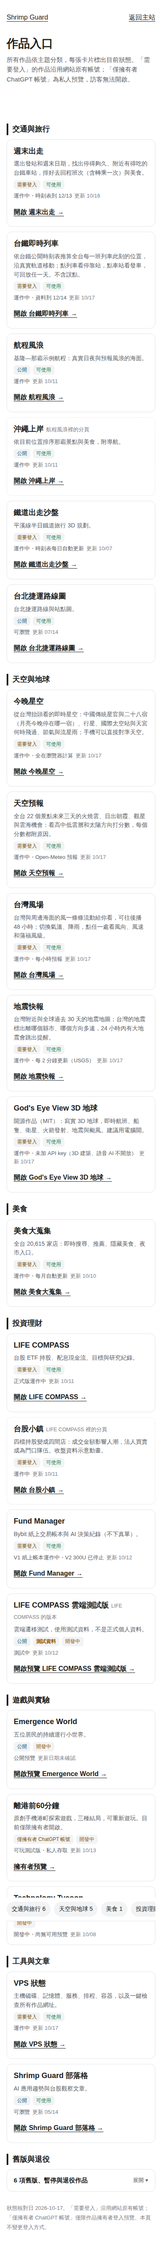
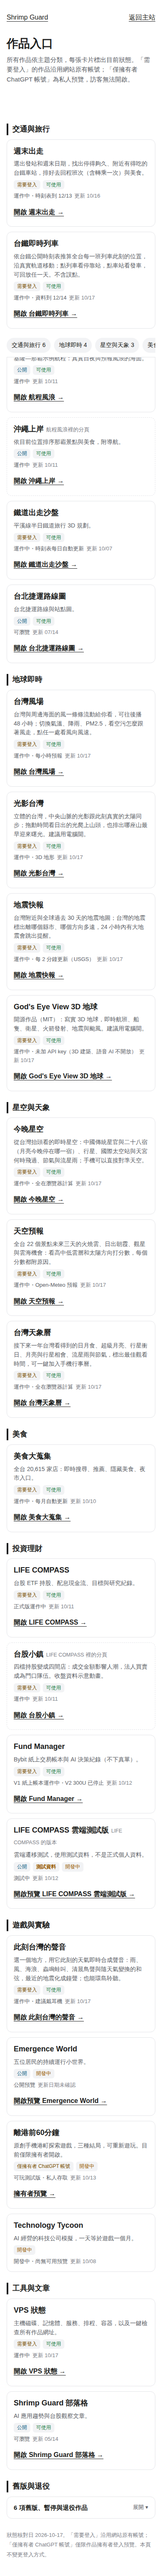
projects: add 台灣天象曆, 光影台灣, 此刻台灣的聲音; split 地球即時 / 星空與天象 (30 works)
Claude-Session: https://claude.ai/code/session_01GVcRfQhdVaSGc69DiKrmzk

diff --git a/overlays/projects/index.html b/overlays/projects/index.html
@@ -1,0 +1,28 @@
+<!doctype html><html lang="zh-Hant"><head><meta charset="utf-8"><meta name="viewport" content="width=device-width,initial-scale=1"><title>作品入口 · Shrimp Guard</title><meta name="description" content="Shrimp Guard 所有作品與目前狀態。"><style>
+:root{color-scheme:light dark;--bg:#fff;--card:#fff;--ink:#1d1e20;--ink2:#5b5e66;--ink3:#7d8087;--line:#e3e4e8;--chip:#f2f3f5;--ok:#1d7f46;--dev:#9a5c00;--old:#6c6f77;--ask:#5b43b0;--lock:#7a5000;--pub:#0a5f85}
+@media (prefers-color-scheme:dark){:root{--bg:#1d1e20;--card:#26272b;--ink:#dadadb;--ink2:#b0b2b7;--ink3:#8c8f96;--line:#38393e;--chip:#313237;--ok:#57c785;--dev:#e3a23a;--old:#a3a6ad;--ask:#ad98f2;--lock:#e5b864;--pub:#64bde4}}
+*{box-sizing:border-box}body{margin:0;background:var(--bg);color:var(--ink);font-family:-apple-system,BlinkMacSystemFont,"Segoe UI","PingFang TC","Noto Sans TC",sans-serif;line-height:1.55}
+.shell{max-width:1000px;margin:auto;padding:20px 16px 40px}
+nav.top{display:flex;justify-content:space-between;align-items:center}nav.top a{color:var(--ink);padding:10px 0;text-decoration:underline;text-underline-offset:4px}
+h1{font-size:clamp(28px,5vw,40px);margin:18px 0 6px}.intro{color:var(--ink2);margin:0;font-size:15px}
+.jump{position:sticky;top:0;z-index:2;background:var(--bg);display:flex;gap:8px;overflow-x:auto;padding:10px 0;margin-top:12px;border-bottom:1px solid var(--line)}
+.jump a{flex:none;font-size:14px;padding:7px 12px;border-radius:999px;background:var(--chip);color:var(--ink);text-decoration:none;white-space:nowrap}
+section{scroll-margin-top:60px}h2{font-size:18px;margin:26px 0 10px;padding-left:10px;border-left:4px solid var(--ink)}
+.grid{display:grid;grid-template-columns:repeat(2,minmax(0,1fr));gap:12px}
+.card{background:var(--card);border:1px solid var(--line);border-radius:12px;padding:14px 16px;display:flex;flex-direction:column;gap:6px;min-width:0}
+.card.sub{border-style:dashed}
+.name{font-size:18px;font-weight:700;margin:0}.of{font-size:12.5px;color:var(--ink3);font-weight:400;margin-left:6px}
+.desc{font-size:14px;color:var(--ink2);margin:0}
+.tags{display:flex;gap:6px;flex-wrap:wrap;margin:0;padding:0;list-style:none}
+.tags li{font-size:12px;padding:2px 8px;border-radius:6px;background:var(--chip);color:var(--ink2)}
+.tags .pub{color:var(--pub)}.tags .lock{color:var(--lock)}.tags .ok{color:var(--ok)}.tags .dev{color:var(--dev)}.tags .old{color:var(--old)}.tags .ask{color:var(--ask)}.tags .test{color:var(--dev);font-weight:700}
+.st{font-size:13px;color:var(--ink2);margin:0}.st time{color:var(--ink3);margin-left:6px}
+.open{margin:2px 0 0}.open a{display:inline-block;padding:8px 0;color:var(--ink);font-weight:700;text-decoration:underline;text-underline-offset:4px}
+details{border:1px solid var(--line);border-radius:12px;background:var(--card)}
+summary{cursor:pointer;padding:14px 16px;font-size:15px;font-weight:700;display:flex;justify-content:space-between;align-items:center}
+summary::-webkit-details-marker{display:none}summary::after{content:"展開 ▾";font-size:13px;font-weight:500;color:var(--ink2)}details[open] summary::after{content:"收合 ▴"}
+details .grid{padding:0 12px 12px}
+footer{margin-top:28px;font-size:13px;color:var(--ink3);line-height:1.8}
+a:focus-visible,summary:focus-visible{outline:3px solid #6797c0;outline-offset:4px}
+@media(max-width:600px){.grid{grid-template-columns:1fr}}
+</style></head><body><div class="shell"><nav class="top" aria-label="網站導覽"><a href="/">Shrimp Guard</a><a href="/">返回主站</a></nav><main><h1>作品入口</h1><p class="intro">所有作品依主題分類，每張卡片標出目前狀態。「需要登入」的作品沿用網站原有帳號；「僅擁有者 ChatGPT 帳號」為私人預覽，訪客無法開啟。</p><nav class="jump" aria-label="分類"><a href="#travel">交通與旅行 6</a><a href="#live">地球即時 4</a><a href="#sky">星空與天象 3</a><a href="#food">美食 1</a><a href="#money">投資理財 4</a><a href="#lab">遊戲與實驗 4</a><a href="#tools">工具與文章 2</a><a href="#old">舊版與退役 6</a></nav><section id="travel" aria-label="交通與旅行"><h2>交通與旅行</h2><div class="grid"><article class="card"><h3 class="name">週末出走</h3><p class="desc">選出發站和週末日期，找出停得夠久、附近有得吃的台鐵車站，排好去回程班次（含轉乘一次）與美食。</p><ul class="tags"><li class="lock">需要登入</li><li class="ok">可使用</li></ul><p class="st">運作中・時刻表到 12/13<time>更新 10/16</time></p><p class="open"><a href="https://dashboard.shrimp-guard.us.ci/weekend/">開啟 週末出走 →</a></p></article><article class="card"><h3 class="name">台鐵即時列車</h3><p class="desc">依台鐵公開時刻表推算全台每一班列車此刻的位置，沿真實軌道移動；點列車看停靠站，點車站看發車，可回放任一天。不含誤點。</p><ul class="tags"><li class="lock">需要登入</li><li class="ok">可使用</li></ul><p class="st">運作中・資料到 12/14<time>更新 10/17</time></p><p class="open"><a href="https://dashboard.shrimp-guard.us.ci/apps/rail-live/">開啟 台鐵即時列車 →</a></p></article><article class="card"><h3 class="name">航程風浪</h3><p class="desc">基隆—那霸示例航程：真實日夜與預報風浪的海面。</p><ul class="tags"><li class="pub">公開</li><li class="ok">可使用</li></ul><p class="st">運作中<time>更新 10/11</time></p><p class="open"><a href="/room/">開啟 航程風浪 →</a></p></article><article class="card sub"><h3 class="name">沖繩上岸<span class="of">航程風浪裡的分頁</span></h3><p class="desc">依目前位置排序那霸景點與美食，附導航。</p><ul class="tags"><li class="pub">公開</li><li class="ok">可使用</li></ul><p class="st">運作中<time>更新 10/11</time></p><p class="open"><a href="/room/#landing">開啟 沖繩上岸 →</a></p></article><article class="card"><h3 class="name">鐵道出走沙盤</h3><p class="desc">平溪線半日鐵道旅行 3D 規劃。</p><ul class="tags"><li class="lock">需要登入</li><li class="ok">可使用</li></ul><p class="st">運作中・時刻表每日自動更新<time>更新 10/07</time></p><p class="open"><a href="https://dashboard.shrimp-guard.us.ci/rail-trip/">開啟 鐵道出走沙盤 →</a></p></article><article class="card"><h3 class="name">台北捷運路線圖</h3><p class="desc">台北捷運路線與站點圖。</p><ul class="tags"><li class="pub">公開</li><li class="ok">可使用</li></ul><p class="st">可瀏覽<time>更新 07/14</time></p><p class="open"><a href="/taipei-mrt/">開啟 台北捷運路線圖 →</a></p></article></div></section><section id="live" aria-label="地球即時"><h2>地球即時</h2><div class="grid"><article class="card"><h3 class="name">台灣風場</h3><p class="desc">台灣與周邊海面的風一條條流動給你看，可往後播 48 小時；切換氣溫、降雨、PM2.5，看空污怎麼跟著風走，點任一處看風向風速。</p><ul class="tags"><li class="lock">需要登入</li><li class="ok">可使用</li></ul><p class="st">運作中・每小時預報<time>更新 10/17</time></p><p class="open"><a href="https://dashboard.shrimp-guard.us.ci/apps/wind/">開啟 台灣風場 →</a></p></article><article class="card"><h3 class="name">光影台灣</h3><p class="desc">立體的台灣，中央山脈的光影跟此刻真實的太陽同步；拖動時間看日出的光爬上山頭，也排出哪座山最早迎來曙光。建議用電腦開。</p><ul class="tags"><li class="lock">需要登入</li><li class="ok">可使用</li></ul><p class="st">運作中・3D 地形<time>更新 10/17</time></p><p class="open"><a href="https://dashboard.shrimp-guard.us.ci/apps/relief/">開啟 光影台灣 →</a></p></article><article class="card"><h3 class="name">地震快報</h3><p class="desc">台灣附近與全球過去 30 天的地震地圖；台灣的地震標出離哪個縣市、哪個方向多遠，24 小時內有大地震會跳出提醒。</p><ul class="tags"><li class="lock">需要登入</li><li class="ok">可使用</li></ul><p class="st">運作中・每 2 分鐘更新（USGS）<time>更新 10/17</time></p><p class="open"><a href="https://dashboard.shrimp-guard.us.ci/apps/quake/">開啟 地震快報 →</a></p></article><article class="card"><h3 class="name">God&#x27;s Eye View 3D 地球</h3><p class="desc">開源作品（MIT）：寫實 3D 地球，即時航班、船隻、衛星、火箭發射、地震與颱風。建議用電腦開。</p><ul class="tags"><li class="lock">需要登入</li><li class="ok">可使用</li></ul><p class="st">運作中・未加 API key（3D 建築、語音 AI 不開放）<time>更新 10/17</time></p><p class="open"><a href="https://dashboard.shrimp-guard.us.ci/globe/">開啟 God&#x27;s Eye View 3D 地球 →</a></p></article></div></section><section id="sky" aria-label="星空與天象"><h2>星空與天象</h2><div class="grid"><article class="card"><h3 class="name">今晚星空</h3><p class="desc">從台灣抬頭看的即時星空：中國傳統星官與二十八宿（月亮今晚停在哪一宿）、行星、國際太空站與天宮何時飛過、節氣與流星雨；手機可以直接對準天空。</p><ul class="tags"><li class="lock">需要登入</li><li class="ok">可使用</li></ul><p class="st">運作中・全在瀏覽器計算<time>更新 10/17</time></p><p class="open"><a href="https://dashboard.shrimp-guard.us.ci/apps/sky/">開啟 今晚星空 →</a></p></article><article class="card"><h3 class="name">天空預報</h3><p class="desc">全台 22 個景點未來三天的火燒雲、日出朝霞、觀星與雲海機會：看高中低雲層和太陽方向打分數，每個分數都附原因。</p><ul class="tags"><li class="lock">需要登入</li><li class="ok">可使用</li></ul><p class="st">運作中・Open-Meteo 預報<time>更新 10/17</time></p><p class="open"><a href="https://dashboard.shrimp-guard.us.ci/apps/skycast/">開啟 天空預報 →</a></p></article><article class="card"><h3 class="name">台灣天象曆</h3><p class="desc">接下來一年台灣看得到的日月食、超級月亮、行星衝日、月亮與行星相會、流星雨與節氣，標出最佳觀看時間，可一鍵加入手機行事曆。</p><ul class="tags"><li class="lock">需要登入</li><li class="ok">可使用</li></ul><p class="st">運作中・全在瀏覽器計算<time>更新 10/17</time></p><p class="open"><a href="https://dashboard.shrimp-guard.us.ci/apps/almanac/">開啟 台灣天象曆 →</a></p></article></div></section><section id="food" aria-label="美食"><h2>美食</h2><div class="grid"><article class="card"><h3 class="name">美食大蒐集</h3><p class="desc">全台 20,615 家店：即時搜尋、推薦、隱藏美食、夜市入口。</p><ul class="tags"><li class="lock">需要登入</li><li class="ok">可使用</li></ul><p class="st">運作中・每月自動更新<time>更新 10/10</time></p><p class="open"><a href="https://dashboard.shrimp-guard.us.ci/food-map/">開啟 美食大蒐集 →</a></p></article></div></section><section id="money" aria-label="投資理財"><h2>投資理財</h2><div class="grid"><article class="card"><h3 class="name">LIFE COMPASS</h3><p class="desc">台股 ETF 持股、配息現金流、目標與研究紀錄。</p><ul class="tags"><li class="lock">需要登入</li><li class="ok">可使用</li></ul><p class="st">正式版運作中<time>更新 10/11</time></p><p class="open"><a href="https://dashboard.shrimp-guard.us.ci/one-life/">開啟 LIFE COMPASS →</a></p></article><article class="card sub"><h3 class="name">台股小鎮<span class="of">LIFE COMPASS 裡的分頁</span></h3><p class="desc">四檔持股變成四間店：成交金額影響人潮，法人買賣成為門口隊伍。收盤資料示意動畫。</p><ul class="tags"><li class="lock">需要登入</li><li class="ok">可使用</li></ul><p class="st">運作中<time>更新 10/11</time></p><p class="open"><a href="https://dashboard.shrimp-guard.us.ci/one-life/#town">開啟 台股小鎮 →</a></p></article><article class="card"><h3 class="name">Fund Manager</h3><p class="desc">Bybit 紙上交易帳本與 AI 決策紀錄（不下真單）。</p><ul class="tags"><li class="lock">需要登入</li><li class="ok">可使用</li></ul><p class="st">V1 紙上帳本運作中・V2 300U 已停止<time>更新 10/12</time></p><p class="open"><a href="https://dashboard.shrimp-guard.us.ci/fund-manager/">開啟 Fund Manager →</a></p></article><article class="card"><h3 class="name">LIFE COMPASS 雲端測試版<span class="of">LIFE COMPASS 的版本</span></h3><p class="desc">雲端遷移測試，使用測試資料，不是正式個人資料。</p><ul class="tags"><li class="pub">公開</li><li class="test">測試資料</li><li class="dev">開發中</li></ul><p class="st">測試中<time>更新 10/12</time></p><p class="open"><a href="https://life-compass.httpsmulticlawmoltidworkersdevcmolt32c002a10b29b0e3ad3.workers.dev/">開啟預覽 LIFE COMPASS 雲端測試版 →</a></p></article></div></section><section id="lab" aria-label="遊戲與實驗"><h2>遊戲與實驗</h2><div class="grid"><article class="card"><h3 class="name">此刻台灣的聲音</h3><p class="desc">選一個地方，用它此刻的天氣即時合成聲音：雨、風、海浪、蟲鳴蛙叫、清晨鳥聲與隨天氣變換的和弦，最近的地震化成鐘聲；也能環島聆聽。</p><ul class="tags"><li class="lock">需要登入</li><li class="ok">可使用</li></ul><p class="st">運作中・建議戴耳機<time>更新 10/17</time></p><p class="open"><a href="https://dashboard.shrimp-guard.us.ci/apps/sound/">開啟 此刻台灣的聲音 →</a></p></article><article class="card"><h3 class="name">Emergence World</h3><p class="desc">五位居民的持續運行小世界。</p><ul class="tags"><li class="pub">公開</li><li class="dev">開發中</li></ul><p class="st">公開預覽<time>更新日期未確認</time></p><p class="open"><a href="https://emergence-world-preview.httpsmulticlawmoltidworkersdevcmolt32c002a10b29b0e3ad3.workers.dev/">開啟預覽 Emergence World →</a></p></article><article class="card"><h3 class="name">離港前60分鐘</h3><p class="desc">原創手機港町探索遊戲，三種結局，可重新遊玩。目前僅限擁有者開啟。</p><ul class="tags"><li class="lock">僅擁有者 ChatGPT 帳號</li><li class="dev">開發中</li></ul><p class="st">可玩測試版・私人存取<time>更新 10/13</time></p><p class="open"><a href="https://harbor-sixty-minute-game.windy-maple-0615.chatgpt.site">擁有者預覽 →</a></p></article><article class="card"><h3 class="name">Technology Tycoon</h3><p class="desc">AI 經營的科技公司模擬，一天等於遊戲一個月。</p><ul class="tags"><li class="dev">開發中</li></ul><p class="st">開發中・尚無可用預覽<time>更新 10/08</time></p></article></div></section><section id="tools" aria-label="工具與文章"><h2>工具與文章</h2><div class="grid"><article class="card"><h3 class="name">VPS 狀態</h3><p class="desc">主機磁碟、記憶體、服務、排程、容器，以及一鍵檢查所有作品網址。</p><ul class="tags"><li class="lock">需要登入</li><li class="ok">可使用</li></ul><p class="st">運作中<time>更新 10/17</time></p><p class="open"><a href="https://dashboard.shrimp-guard.us.ci/apps/vps/">開啟 VPS 狀態 →</a></p></article><article class="card"><h3 class="name">Shrimp Guard 部落格</h3><p class="desc">AI 應用趨勢與台股觀察文章。</p><ul class="tags"><li class="pub">公開</li><li class="ok">可使用</li></ul><p class="st">可瀏覽<time>更新 05/14</time></p><p class="open"><a href="/">開啟 Shrimp Guard 部落格 →</a></p></article></div></section><section id="old" aria-label="舊版與退役"><h2>舊版與退役</h2><details><summary>6 項舊版、暫停與退役作品</summary><div class="grid"><article class="card"><h3 class="name">小王國</h3><p class="desc">手機王國遊戲（建設村莊、發布懸賞、英雄自行出任務）。</p><ul class="tags"><li class="old">舊版／暫停</li></ul><p class="st">暫停・素材成果保留<time>更新 10/12</time></p></article><article class="card"><h3 class="name">世界與我</h3><p class="desc">原入口保留中。</p><ul class="tags"><li class="pub">公開</li><li class="old">舊版／暫停</li></ul><p class="st">保留中<time>更新 10/08</time></p><p class="open"><a href="/world-impact/">開啟 世界與我 →</a></p></article><article class="card"><h3 class="name">美食大蒐集（公開版）<span class="of">美食大蒐集的版本</span></h3><p class="desc">曾規劃的 GitHub Pages 公開版本。</p><ul class="tags"><li class="old">舊版／暫停</li></ul><p class="st">暫停・正式版在美食大蒐集<time>更新 10/10</time></p></article><article class="card"><h3 class="name">ONE LIFE ／ AI Resident</h3><p class="desc">生活角色實驗，網址已由 LIFE COMPASS 接手。</p><ul class="tags"><li class="old">舊版／暫停</li></ul><p class="st">已退役<time>更新 10/01</time></p></article><article class="card"><h3 class="name">AI COMMONS ／ Latticefolk</h3><p class="desc">多模型社群與 AI 生活世界實驗。</p><ul class="tags"><li class="old">舊版／暫停</li></ul><p class="st">已退役<time>更新 09/30</time></p></article><article class="card"><h3 class="name">Fund Manager V2 300U<span class="of">Fund Manager 的版本</span></h3><p class="desc">300 USDT 雙向持倉紙上帳本。</p><ul class="tags"><li class="old">舊版／暫停</li></ul><p class="st">已停止・紀錄可在 Fund Manager 查看<time>更新 10/12</time></p></article></div></details></section></main><footer>狀態核對日 2026-10-17。「需要登入」沿用網站原有帳號；「僅擁有者 ChatGPT 帳號」僅限作品擁有者登入預覽。本頁不變更登入方式。</footer></div></body></html>

diff --git a/scripts/build_projects_entry.py b/scripts/build_projects_entry.py
@@ -8,9 +8,11 @@ D = 'https://dashboard.shrimp-guard.us.ci'
 CHECKED = '2026-10-17'
 # group: ok 可使用 / dev 開發中 / old 舊版／暫停 (collapsed) / ask 待確認 (no open button)
 WORKS = [
-    dict(c='live', g='ok', name='今晚星空', desc='從台灣抬頭看的即時星空：中國傳統星官與二十八宿（月亮今晚停在哪一宿）、行星、國際太空站與天宮何時飛過、節氣與流星雨；手機可以直接對準天空。', url=D + '/apps/sky/', login=True, st='運作中・全在瀏覽器計算', date='10/17'),
-    dict(c='live', g='ok', name='天空預報', desc='全台 22 個景點未來三天的火燒雲、日出朝霞、觀星與雲海機會：看高中低雲層和太陽方向打分數，每個分數都附原因。', url=D + '/apps/skycast/', login=True, st='運作中・Open-Meteo 預報', date='10/17'),
-    dict(c='live', g='ok', name='台灣風場', desc='台灣與周邊海面的風一條條流動給你看，可往後播 48 小時；切換氣溫、降雨，點任一處看風向、風速和蒲福風級。', url=D + '/apps/wind/', login=True, st='運作中・每小時預報', date='10/17'),
+    dict(c='sky', g='ok', name='今晚星空', desc='從台灣抬頭看的即時星空：中國傳統星官與二十八宿（月亮今晚停在哪一宿）、行星、國際太空站與天宮何時飛過、節氣與流星雨；手機可以直接對準天空。', url=D + '/apps/sky/', login=True, st='運作中・全在瀏覽器計算', date='10/17'),
+    dict(c='sky', g='ok', name='天空預報', desc='全台 22 個景點未來三天的火燒雲、日出朝霞、觀星與雲海機會：看高中低雲層和太陽方向打分數，每個分數都附原因。', url=D + '/apps/skycast/', login=True, st='運作中・Open-Meteo 預報', date='10/17'),
+    dict(c='live', g='ok', name='台灣風場', desc='台灣與周邊海面的風一條條流動給你看，可往後播 48 小時；切換氣溫、降雨、PM2.5，看空污怎麼跟著風走，點任一處看風向風速。', url=D + '/apps/wind/', login=True, st='運作中・每小時預報', date='10/17'),
+    dict(c='sky', g='ok', name='台灣天象曆', desc='接下來一年台灣看得到的日月食、超級月亮、行星衝日、月亮與行星相會、流星雨與節氣，標出最佳觀看時間，可一鍵加入手機行事曆。', url=D + '/apps/almanac/', login=True, st='運作中・全在瀏覽器計算', date='10/17'),
+    dict(c='live', g='ok', name='光影台灣', desc='立體的台灣，中央山脈的光影跟此刻真實的太陽同步；拖動時間看日出的光爬上山頭，也排出哪座山最早迎來曙光。建議用電腦開。', url=D + '/apps/relief/', login=True, st='運作中・3D 地形', date='10/17'),
     dict(c='live', g='ok', name='地震快報', desc='台灣附近與全球過去 30 天的地震地圖；台灣的地震標出離哪個縣市、哪個方向多遠，24 小時內有大地震會跳出提醒。', url=D + '/apps/quake/', login=True, st='運作中・每 2 分鐘更新（USGS）', date='10/17'),
     dict(c='travel', g='ok', name='週末出走', desc='選出發站和週末日期，找出停得夠久、附近有得吃的台鐵車站，排好去回程班次（含轉乘一次）與美食。', url=D + '/weekend/', login=True, st='運作中・時刻表到 12/13', date='10/16'),
     dict(c='travel', g='ok', name='台鐵即時列車', desc='依台鐵公開時刻表推算全台每一班列車此刻的位置，沿真實軌道移動；點列車看停靠站，點車站看發車，可回放任一天。不含誤點。', url=D + '/apps/rail-live/', login=True, st='運作中・資料到 12/14', date='10/17'),
@@ -26,6 +28,7 @@ WORKS = [
     dict(c='travel', g='ok', name='台北捷運路線圖', desc='台北捷運路線與站點圖。', url='/taipei-mrt/', login=False, st='可瀏覽', date='07/14'),
     dict(c='tools', g='ok', name='Shrimp Guard 部落格', desc='AI 應用趨勢與台股觀察文章。', url='/', login=False, st='可瀏覽', date='05/14'),
     dict(c='money', g='dev', name='LIFE COMPASS 雲端測試版', of='LIFE COMPASS 的版本', desc='雲端遷移測試，使用測試資料，不是正式個人資料。', url='https://life-compass.httpsmulticlawmoltidworkersdevcmolt32c002a10b29b0e3ad3.workers.dev/', login=False, test=True, st='測試中', date='10/12'),
+    dict(c='lab', g='ok', name='此刻台灣的聲音', desc='選一個地方，用它此刻的天氣即時合成聲音：雨、風、海浪、蟲鳴蛙叫、清晨鳥聲與隨天氣變換的和弦，最近的地震化成鐘聲；也能環島聆聽。', url=D + '/apps/sound/', login=True, st='運作中・建議戴耳機', date='10/17'),
     dict(c='lab', g='dev', name='Emergence World', desc='五位居民的持續運行小世界。', url='https://emergence-world-preview.httpsmulticlawmoltidworkersdevcmolt32c002a10b29b0e3ad3.workers.dev/', login=False, st='公開預覽', date=None),
     dict(c='lab', g='dev', name='離港前60分鐘', desc='原創手機港町探索遊戲，三種結局，可重新遊玩。目前僅限擁有者開啟。', url='https://harbor-sixty-minute-game.windy-maple-0615.chatgpt.site', login=True, access='僅擁有者 ChatGPT 帳號', btn='擁有者預覽', st='可玩測試版・私人存取', date='10/13'),
     dict(c='lab', g='dev', name='Technology Tycoon', desc='AI 經營的科技公司模擬，一天等於遊戲一個月。', url=None, st='開發中・尚無可用預覽', date='10/08'),
@@ -37,7 +40,7 @@ WORKS = [
     dict(c='old', g='old', name='Fund Manager V2 300U', of='Fund Manager 的版本', desc='300 USDT 雙向持倉紙上帳本。', url=None, st='已停止・紀錄可在 Fund Manager 查看', date='10/12'),
 ]
 GROUPS = [('ok', '可使用'), ('dev', '開發中'), ('old', '舊版／暫停')]  # status, shown as a tag on each card
-CATS = [('travel', '交通與旅行'), ('live', '天空與地球'), ('food', '美食'), ('money', '投資理財'), ('lab', '遊戲與實驗'), ('tools', '工具與文章'), ('old', '舊版與退役')]
+CATS = [('travel', '交通與旅行'), ('live', '地球即時'), ('sky', '星空與天象'), ('food', '美食'), ('money', '投資理財'), ('lab', '遊戲與實驗'), ('tools', '工具與文章'), ('old', '舊版與退役')]
 assert all(w['c'] in dict(CATS) for w in WORKS) and all((w['c'] == 'old') == (w['g'] == 'old') for w in WORKS)
 
 CSS = """
